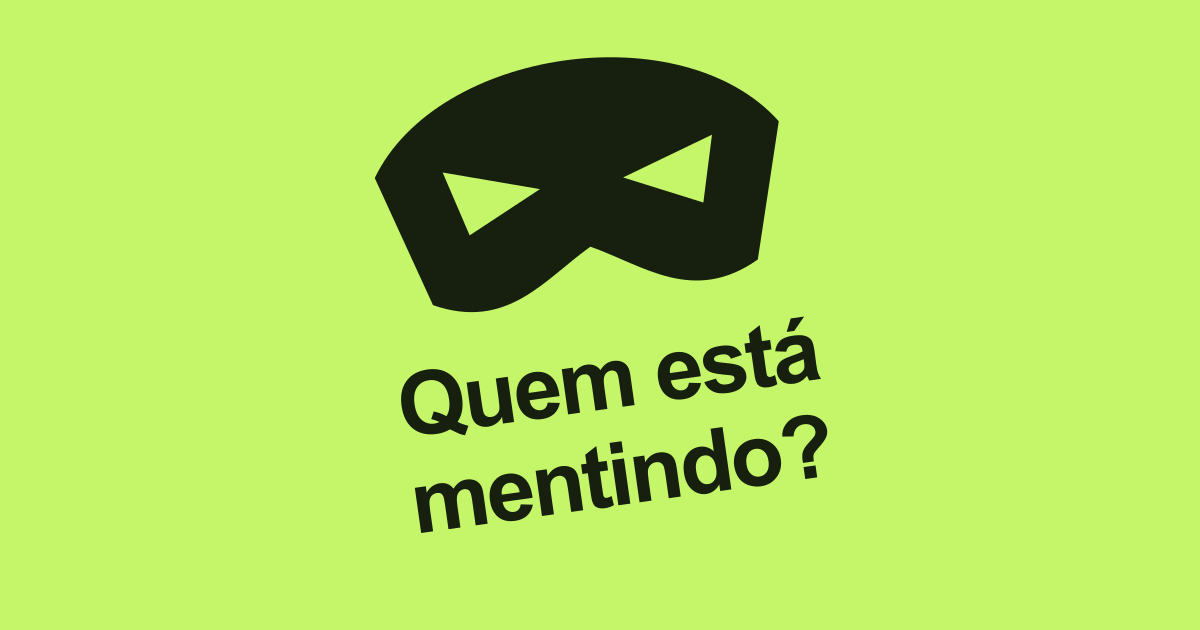
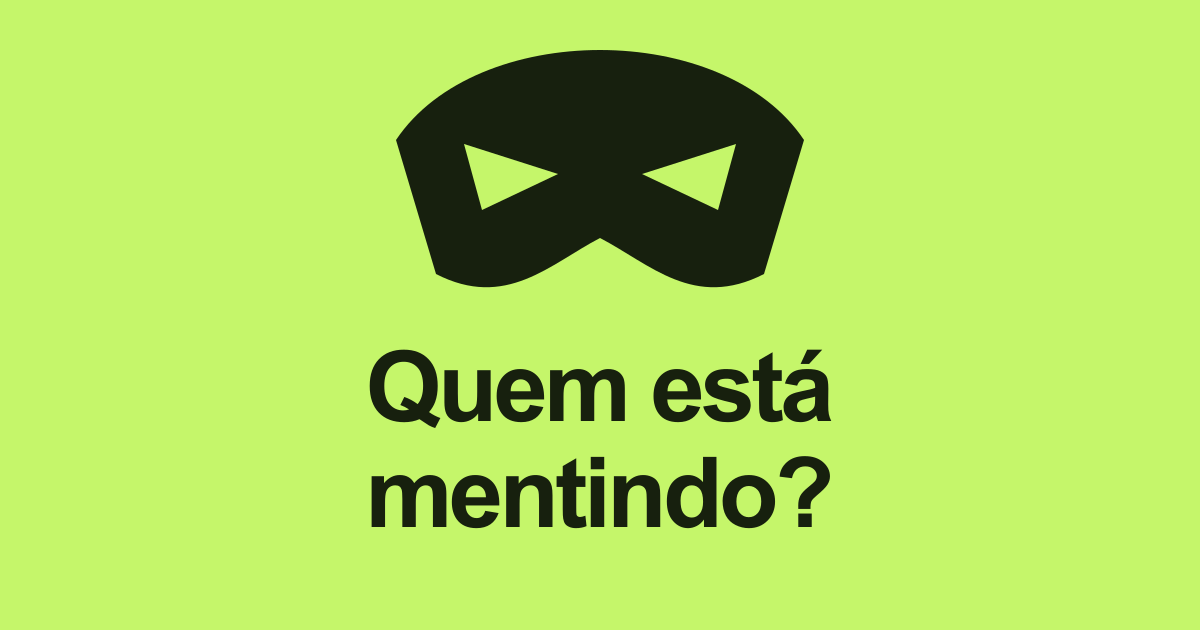
fix(sharing): melhora nitidez da imagem e renova cache da previa

diff --git a/index.html b/index.html
@@ -10,14 +10,14 @@
     <meta property="og:site_name" content="Um de Nós" />
     <meta property="og:title" content="Um de Nós — Jogo do Impostor completo e grátis" />
     <meta property="og:description" content="Você conhece seus amigos. Mas deveria confiar em todos? Jogue grátis, com um único celular e sem cadastro." />
-    <meta property="og:image" content="/share.png" />
+    <meta property="og:image" content="/share.png?v=2" />
     <meta property="og:image:width" content="1200" />
     <meta property="og:image:height" content="630" />
     <meta property="og:image:alt" content="Quem está mentindo? Máscara escura sobre fundo verde — Um de Nós, jogo do impostor." />
     <meta name="twitter:card" content="summary_large_image" />
     <meta name="twitter:title" content="Um de Nós — Jogo do Impostor completo e grátis" />
     <meta name="twitter:description" content="Reúna os amigos e descubra quem está mentindo. Um celular, 200 palavras e muita desconfiança." />
-    <meta name="twitter:image" content="/share.png" />
+    <meta name="twitter:image" content="/share.png?v=2" />
     <meta name="twitter:image:alt" content="Quem está mentindo? Máscara escura sobre fundo verde — Um de Nós, jogo do impostor." />
     <link rel="icon" type="image/svg+xml" href="/favicon.svg" />
     <link rel="apple-touch-icon" href="/apple-touch-icon.png" />
